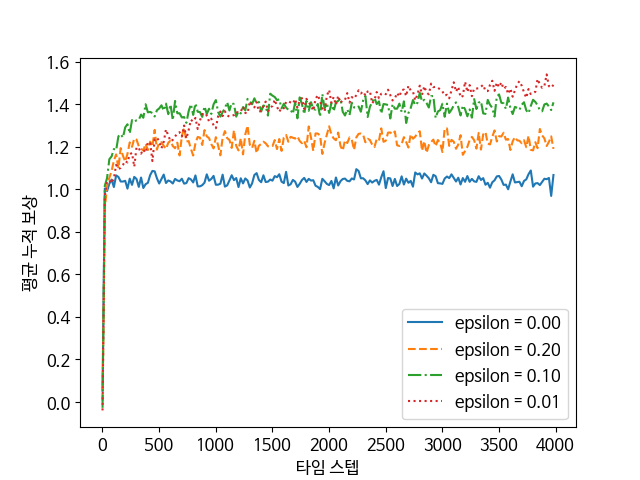
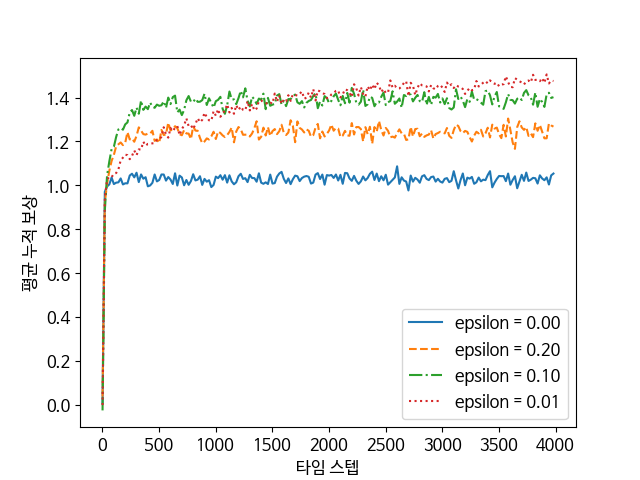
...

diff --git a/chapter_02/10-armed-bandit.py b/chapter_02/10-armed-bandit.py
@@ -536,10 +536,10 @@ def comparison_of_all_methods(max_runs, max_time_steps):
 
 
 if __name__ == '__main__':
-    prob_distribution_of_rewards()
-    greedy_and_epsilon_greedy(max_runs=3000, max_time_steps=1000)
+    #prob_distribution_of_rewards()
+    #greedy_and_epsilon_greedy(max_runs=3000, max_time_steps=1000)
     greedy_and_epsilon_greedy(max_runs=3000, max_time_steps=4000)
-    q_estimation_initial(max_runs=3000, max_time_steps=1000)
-    ucb_selection(max_runs=3000, max_time_steps=1000)
-    gradients(max_runs=3000, max_time_steps=1000)
-    comparison_of_all_methods(max_runs=3000, max_time_steps=1000)
+    #q_estimation_initial(max_runs=3000, max_time_steps=1000)
+    #ucb_selection(max_runs=3000, max_time_steps=1000)
+    #gradients(max_runs=3000, max_time_steps=1000)
+    #comparison_of_all_methods(max_runs=3000, max_time_steps=1000)
